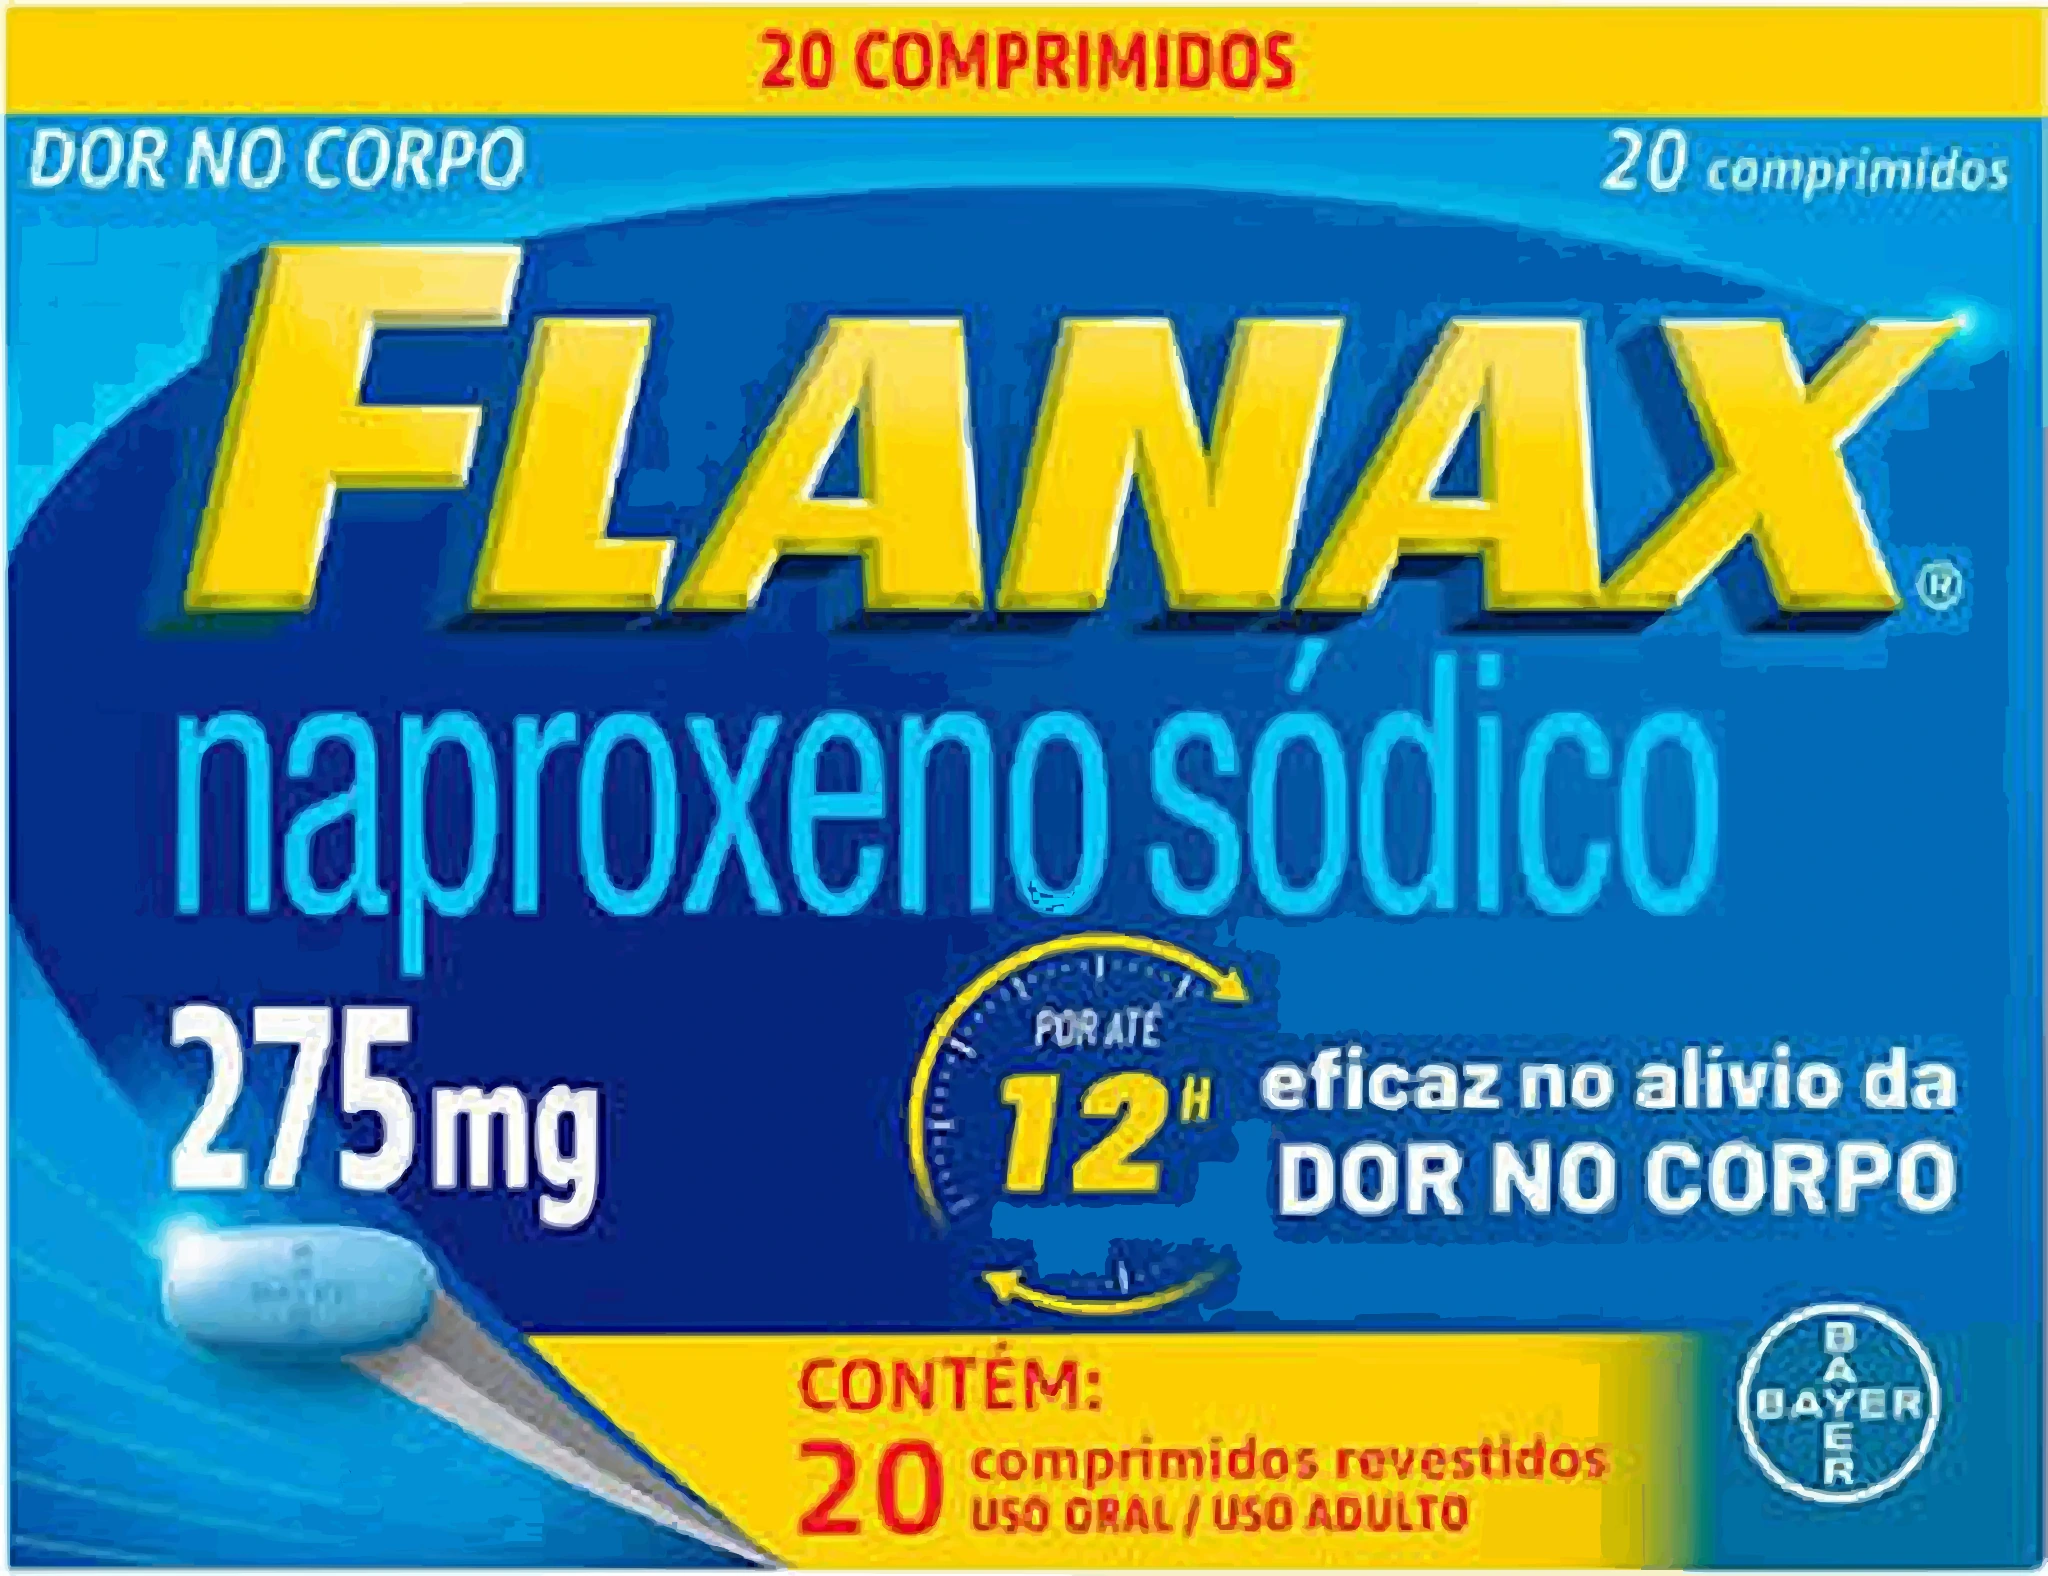
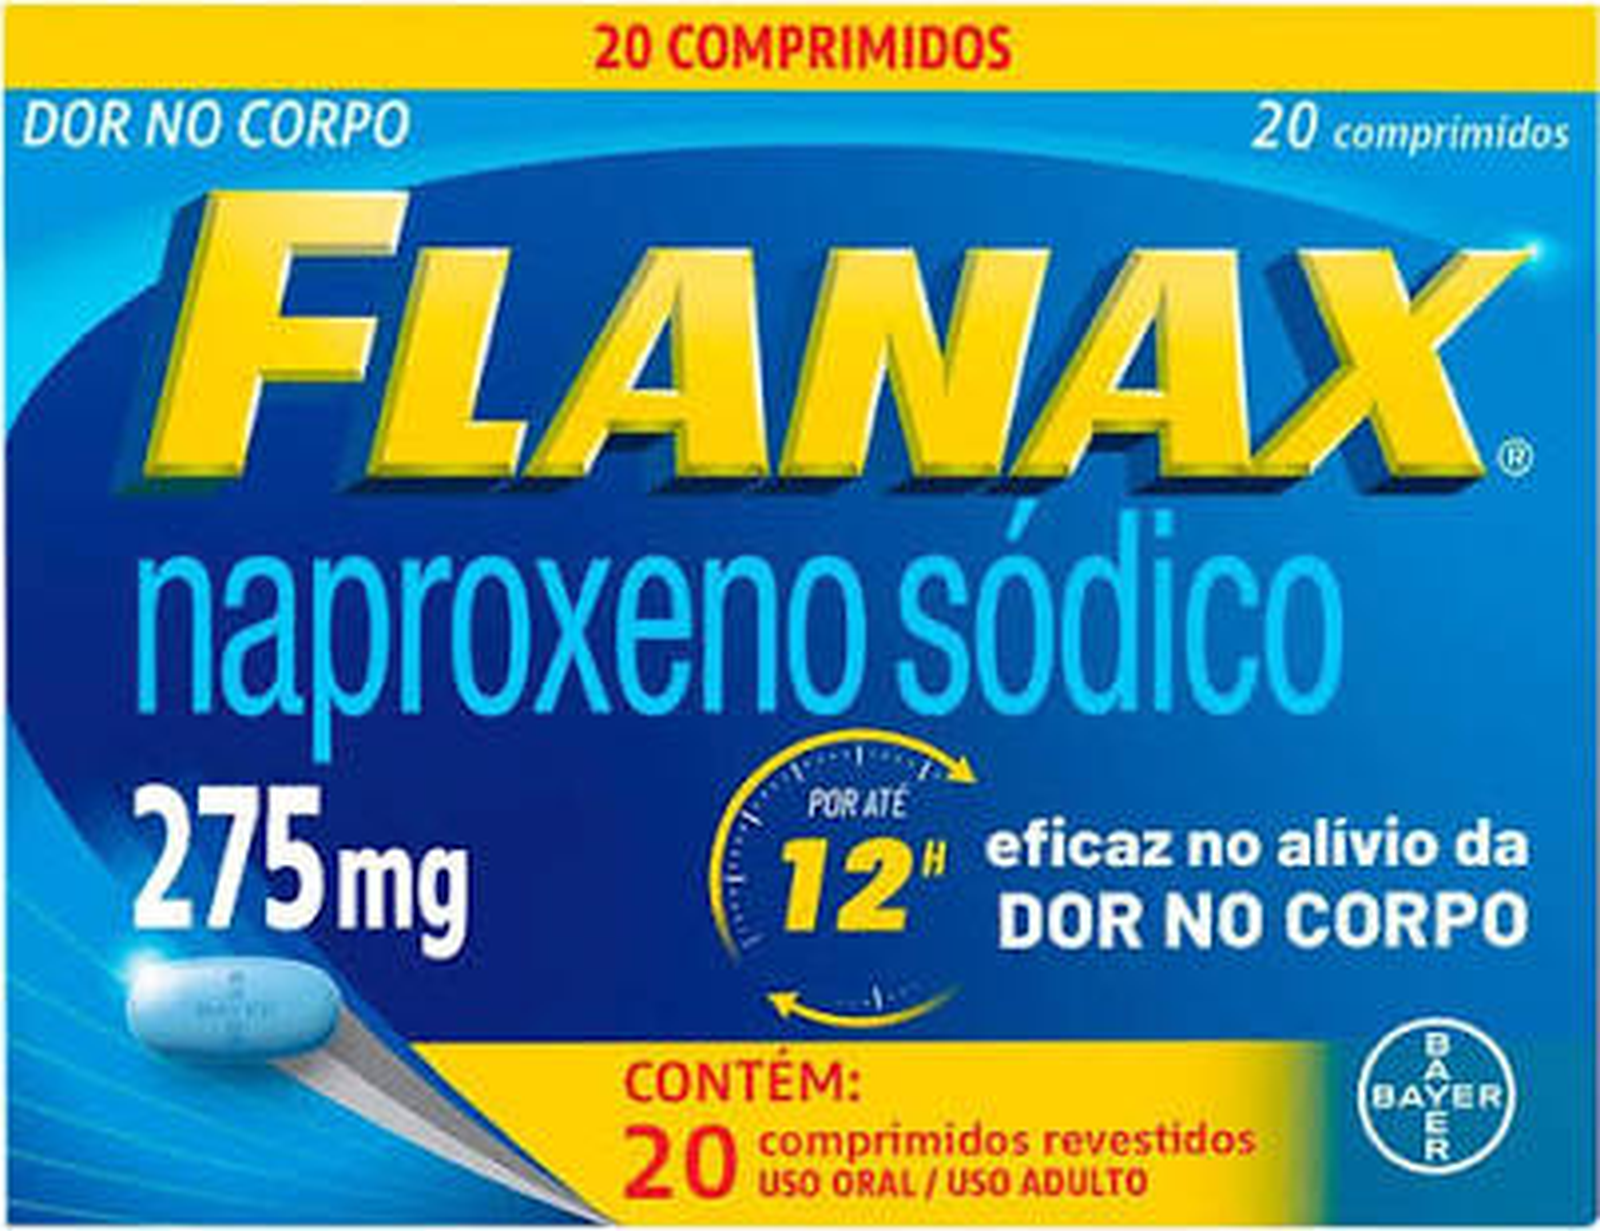
Volta às fotos originais das embalagens, sem tratamento
Claude-Session: https://claude.ai/code/session_013Dykrg3gWrrkZXiC9Tj92U

diff --git a/catalog.js b/catalog.js
@@ -179,8 +179,8 @@ window.FX = (() => {
 
   // Frente = a própria arte da embalagem (foto endireitada), proporção real de cada caixa
   const PHOTO_RATIO = { 'flanax-275-8': 1.314, 'flanax-275-20': 1.298, 'flanax-550-10': 1.32, 'flanax-550-15': 1.276, 'flanax-xr': 1.359 };
-  // Arte vetorizada da embalagem (traçado da foto), renderizada em alta resolução
-  const ART_RATIO = { 'flanax-275-8': 1.3111, 'flanax-275-20': 1.2995, 'flanax-550-10': 1.3204, 'flanax-550-15': 1.28, 'flanax-xr': 1.359 };
+  // Arte da embalagem: as fotos originais, sem tratamento
+  const ART_RATIO = { 'flanax-275-8': 1.3115, 'flanax-275-20': 1.2998, 'flanax-550-10': 1.3201, 'flanax-550-15': 1.28, 'flanax-xr': 1.3594 };
   SKUS.forEach(s => {
     s.art = `assets/arte/${s.id}.webp`;
     s.ratio = ART_RATIO[s.id];

diff --git a/README.md b/README.md
@@ -13,7 +13,7 @@ Site conceitual da linha Flanax (naproxeno sódico), com as cinco embalagens em 
 Site estático, sem build: sirva a pasta (`python3 -m http.server`) e abra `index.html`.
 
 ## Arquivos
-- `assets/arte`: arte das cinco embalagens vetorizada por traçado das fotos e renderizada em 2048 px. Laterais, topo, base e verso continuam as bordas dessa arte.
+- `assets/arte`: as fotos originais das cinco embalagens, recortadas e sem tratamento. Laterais, topo, base e verso continuam as bordas dessa arte.
 - `catalog.js`: dados dos produtos.
 - `scene3d.js`: caixas em WebGL (three.js, em `assets/vendor`), com as artes como textura.
 - `app.js`: interações (abas, órbita, visualizador, busca Ctrl K, tema).
